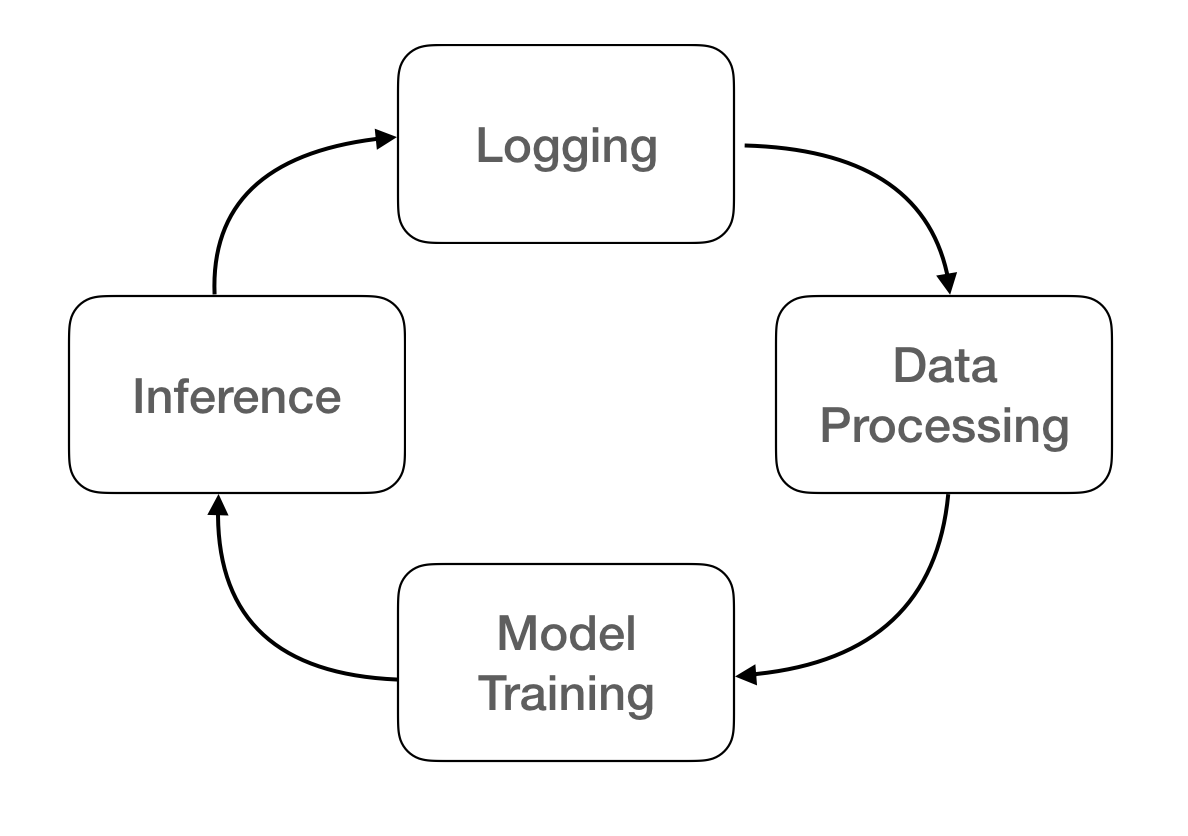
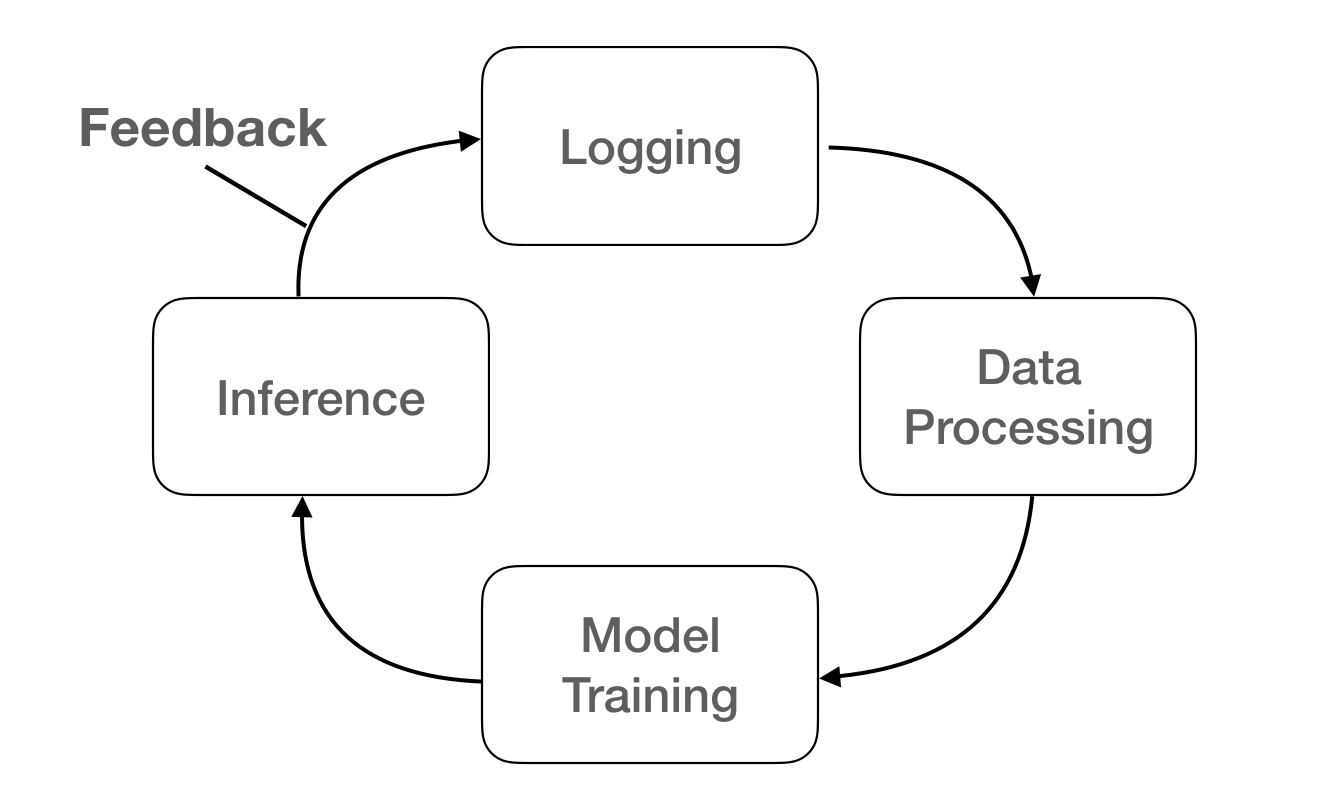
feat(Blog): complete Kino Part4 - Smart Feed

diff --git a/Blog/Personal_Assistant_Kino_Part_4_Smart_Feed.md b/Blog/Personal_Assistant_Kino_Part_4_Smart_Feed.md
@@ -21,7 +21,7 @@ RSS Feed는 많은 웹사이트에서 제공하는 RSS를 사용해서 새로운
 
 > RSS(Rich Site Summary)는 뉴스나 블로그 사이트에서 주로 사용하는 콘텐츠 표현 방식이다. 웹 사이트 관리자는 RSS 형식으로 웹 사이트 내용을 보여 준다. 이 정보를 받는 사람은 다른 형식으로 이용할 수 있다.RSS 리더에는 웹기반형과 설치형이 있다. 웹기반형 리더는 간단한 계정등록으로 어디에서든 이용할 수 있다는 장점을 가지고 있다. - 위키백과 RSS
 
-기본적으로 많은 웹사이트들이 RSS를 제공하고 있습니다. 그리고 이것을 이용하는 서비스들도 많이 있지요. 그 중 하나가 [`Feedly`](https://feedly.com/) 라는 서비스 입니다. 자주 들어가서 보는 사이트들을 등록해두면, 편하게 새로운 글들을 볼 수 있습니다. 물론 이 서비스를 잘 사용하고 있었지만, 제가 원하는 기능들을 전부 지원하고 있지는 않았습니다.
+기본적으로 많은 웹사이트들이 RSS를 제공하고 있습니다. 그리고 이것을 이용하는 서비스들도 많이 있지요. 그 중 하나가 [`Feedly`](https://feedly.com/) 라는 서비스 입니다. 자주 들어가서 보는 사이트들을 등록해두면, 편하게 새로운 글들을 볼 수 있습니다. 저는 이 서비스를 잘 사용하고 있었지만, 제가 원하는 기능들을 전부 지원하고 있지는 않았습니다.
 
 
 ## Pocket
@@ -37,7 +37,7 @@ RSS Feed는 많은 웹사이트에서 제공하는 RSS를 사용해서 새로운
 
 저는 이렇게 새로운 글들을 훑어보고, 관심있는 글들을 Pocket에 저장하고, 읽다가 좋다고 느껴지는 글을 Favorite로 옮기는 저의 패턴을 자동화하고 싶었습니다. 그래서 생각하고 만들게 된 기능이 `Smart Feed` 입니다. 
 
-먼저 이 기능에 필요한 것은 RSS 주소들 입니다. 그래야 여기서 RSS를 읽고 새로운 글이 나오면 저장을 하던 알림을 주던 할 수 있겠죠. 그래서 만들게 된 [awesome-feeds](https://github.com/DongjunLee/awesome-feeds) repository 입니다. 자주 보는 웹사이트들의 RSS를 Git으로 관리를 하면 편할 것 같기도 하고, 여러 좋은 RSS 주소를 가지고 있는 `awesome` 시리즈로 만들고 싶었습니다.
+먼저 이 기능에 필요한 것은 RSS 주소들 입니다. 그래야 여기서 RSS를 읽고 새로운 글이 나오면 저장을 하던 알림을 주던 할 수 있겠죠. 그래서 만들게 된 [awesome-feeds](https://github.com/DongjunLee/awesome-feeds) Repository 입니다. 자주 보는 웹사이트들의 RSS를 Git으로 관리를 하면 편할 것 같기도 하고, 여러 좋은 RSS 주소를 가지고 있는 `awesome` 시리즈로 만들고 싶었습니다.
 
 이제 RSS가 준비 되었으니, 최신 글이 등록되면 알림을 주면 됩니다!  
 여기에서는 [feedparser](https://github.com/kurtmckee/feedparser)를 사용했습니다.
@@ -62,7 +62,7 @@ if feed_url in cache_data:
 
 스케쥴 기능은 [2편 Skill & Scheduller](./Personal_Assistant_Kino_Part_2_Skill_and_Scheduler.md) 에서 다룬 것처럼 지정할 수 있습니다. 매분마다 Feed를 새로 확인하는 것은 과부하가 크기 때문에, 제가 테스트를 해봤을 때는 20분 정도의 interval이면 충분하다고 느껴졌습니다.
 
-```
+```python
 def __excute_feed_schedule(self, interval):
     schedule.every(interval).minutes.do(
         self.__run_threaded,
@@ -89,14 +89,15 @@ def __excute_feed_schedule(self, interval):
 
 Decision Tree는 `scikit-learn` 을 이용하면 아주 간단하게 사용할 수 있습니다.
 
-```
+```python
 class FeedClassifier:
     def __init__(self):
         train_X = FeedData().train_X
         train_y = FeedData().train_y
         
-        self.clf = tree.DecisionTreeClassifier()
-        self.clf = self.clf.fit(train_X, train_y)
+        model = tree.DecisionTreeClassifier()
+        model.fit(train_X, train_y)  # Training
+        self.clf = model
 
     def predict(self, link, category):
         result = self.clf.predict(category_id)[0]
@@ -119,7 +120,7 @@ class FeedClassifier:
 1. Logging: 알람을 받고 있는 Feed의 모든 정보들, 그 중에서 Pocket에 저장한 Feed들 정보
 2. Data Processing: Log를 파싱하여 카테고리, 제목, 날짜, 링크 등의 정보로 가공하고, 라벨 또한 추가해줍니다. (0: Pocket에 추가하지 않음 / 1: Pocket에 추가)
 3. Model: 준비된 데이터를 모델에 Fit 시킵니다. (Training)
-4. Predict: 훈련된 모델을 기반으로 새로운 Feed를 보고 Pocket에 저장할지 말지 판단합니다.
+4. Predict: 훈련된 모델을 기반으로 새로운 Feed를 보고 Pocket에 저장할지 말지 판단합니다. 그리고 이때 모델이 잘못 내린 판단에 대해서 Feedback을 제공하여 올바른 라벨이 저장되도록 합니다.
 
 여기서 실시간으로 학습하는 것이 부담이 된다면, 하루에 한번 새로 학습시키는 것도 방법이 될 수 있을 것 입니다.
 

diff --git a/README.md b/README.md
@@ -5,7 +5,7 @@
 <p align="center">
   <sup><strong>
     My Awesome List & Today I Learned & Blogging Articles. <br/> 
-    <a href="http://humanbrain.in">Blog</a>
+    <a href="https://dongjunlee.github.io/">Blog</a>
   </sup>
 </p>
 
@@ -163,3 +163,4 @@ Personal Blog for Develop, Research, Tech, Projects, Life, Etc...
 - [Personal Assistant Kino Part 1. Overview](Blog/Personal_Assistant_Kino_Part_1.md) 
 - [Personal Assistant Kino Part 2. Skill & Scheduling](Blog/Personal_Assistant_Kino_Part_2_Skill_and_Scheduler.md)
 - [Personal Assistant Kino Part 3. T3](Blog/Personal_Assistant_Kino_Part_3-T3.md)
+- [Personal Assistant Kino Part 4. Smart Feed](Blog/Personal_Assistant_Kino_Part_4_Smart_Feed.md)
